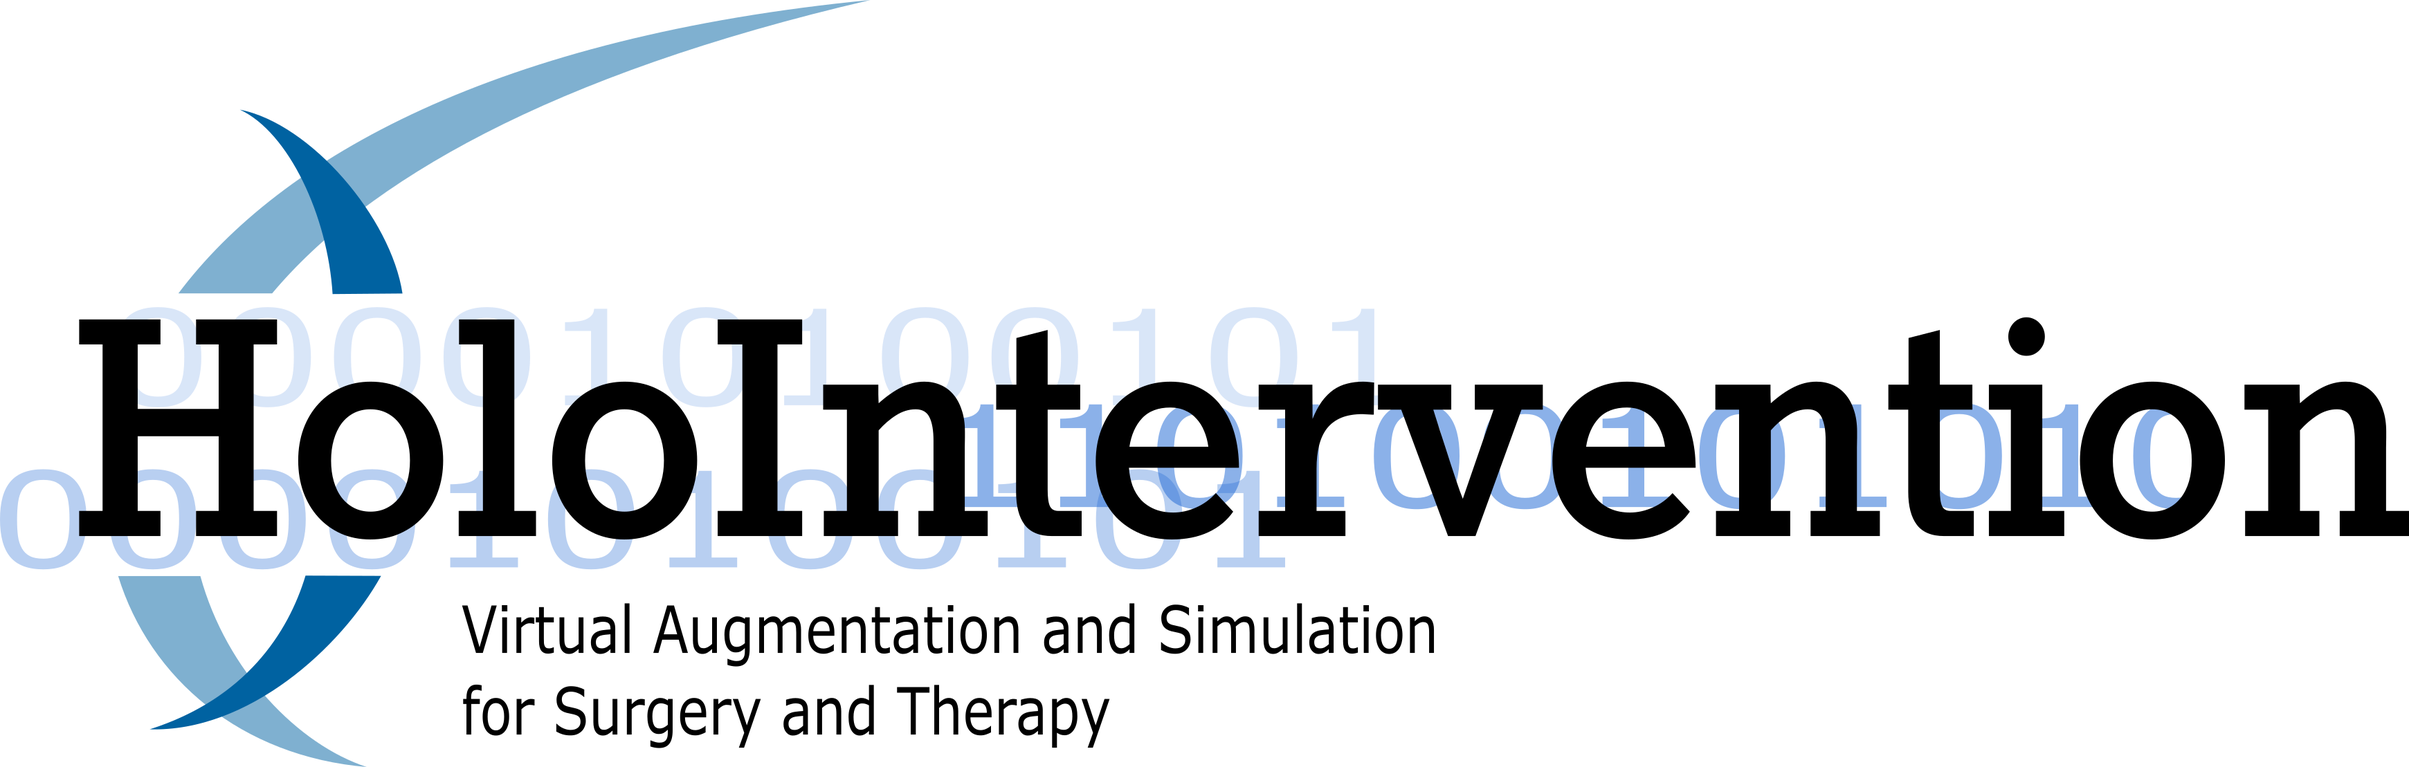
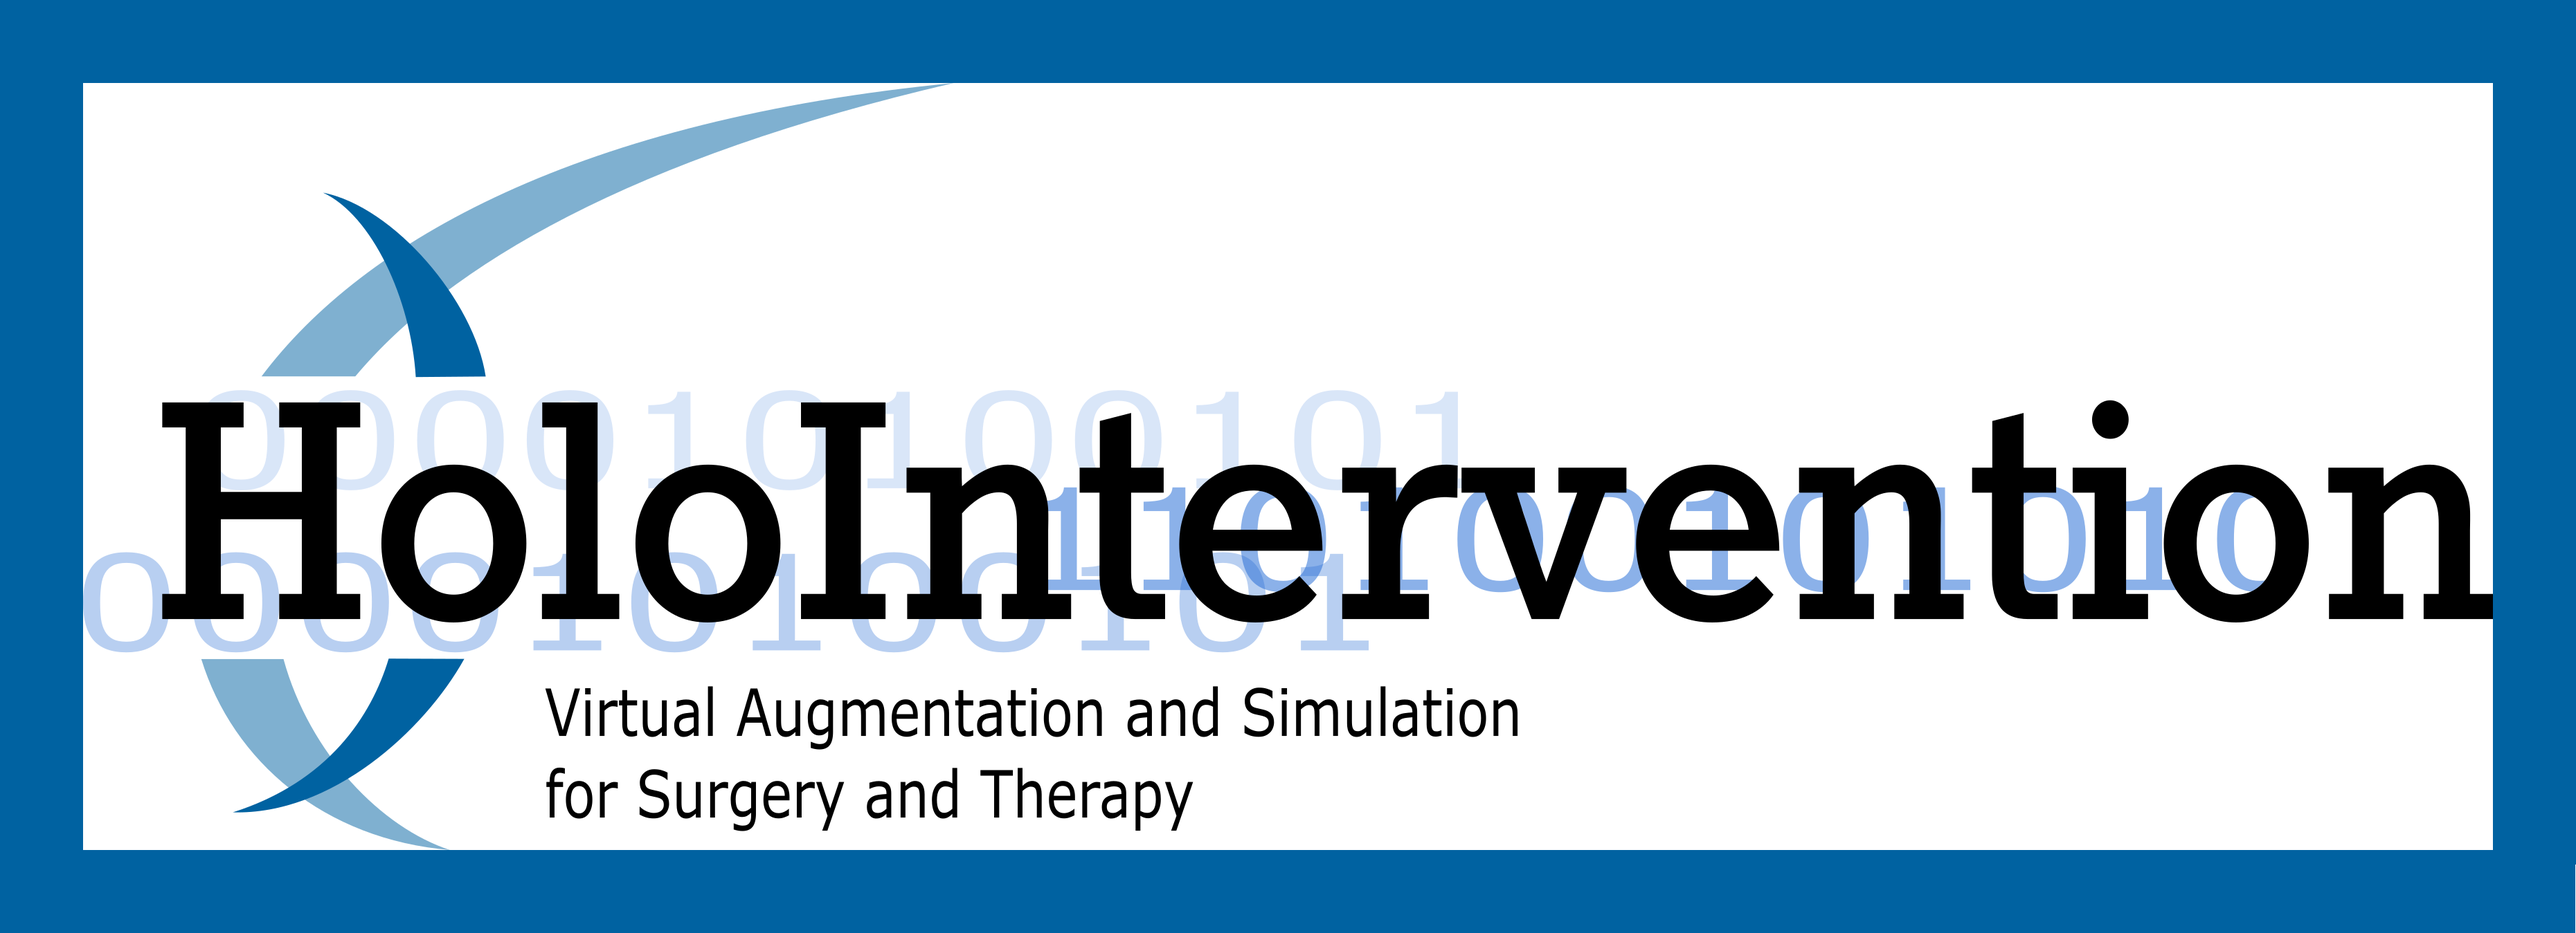
Updating splash system to place the image before lerping it
Applying same logic to model system

Updating splash image

diff --git a/HoloIntervention/Content/Systems/Icon/IconSystem.cpp b/HoloIntervention/Content/Systems/Icon/IconSystem.cpp
@@ -157,7 +157,15 @@ namespace HoloIntervention
       for (auto& entry : m_iconEntries)
       {
         float4x4 scaleToWorldTransform = make_float4x4_scale(entry->GetScaleFactor());
-        entry->GetModelEntry()->SetDesiredPose(scaleToWorldTransform * worldToRotatedTransform * make_float4x4_rotation_y(angle) * make_float4x4_rotation_x(UP_ANGLE));
+        if (entry->GetFirstFrame())
+        {
+          entry->GetModelEntry()->SetCurrentPose(scaleToWorldTransform * worldToRotatedTransform * make_float4x4_rotation_y(angle) * make_float4x4_rotation_x(UP_ANGLE));
+          entry->SetFirstFrame(false);
+        }
+        else
+        {
+          entry->GetModelEntry()->SetDesiredPose(scaleToWorldTransform * worldToRotatedTransform * make_float4x4_rotation_y(angle) * make_float4x4_rotation_x(UP_ANGLE));
+        }
         angle -= (ANGLE_BETWEEN_ICONS_DEG / 180.f * PI);
       }
     }

diff --git a/HoloIntervention/Content/Systems/Icon/IconEntry.h b/HoloIntervention/Content/Systems/Icon/IconEntry.h
@@ -24,6 +24,8 @@ OTHER DEALINGS IN THE SOFTWARE.
 
 #pragma once
 
+#include <atomic>
+
 namespace HoloIntervention
 {
   namespace Rendering
@@ -48,8 +50,12 @@ namespace HoloIntervention
       std::shared_ptr<Rendering::ModelEntry> GetModelEntry() const;
       void SetModelEntry(std::shared_ptr<Rendering::ModelEntry> entry);
 
+      bool GetFirstFrame() const;
+      void SetFirstFrame(bool firstFrame);
+
     protected:
       uint64                                          m_id;
+      std::atomic_bool                                m_firstFrame = true;
       std::shared_ptr<Rendering::ModelEntry>          m_modelEntry;
       float                                           m_scaleFactor = 1.f;
     };

diff --git a/HoloIntervention/Content/Systems/Splash/SplashSystem.cpp b/HoloIntervention/Content/Systems/Splash/SplashSystem.cpp
@@ -118,7 +118,7 @@ namespace HoloIntervention
       {
         const float3 offsetFromGazeAtTwoMeters = headPose->Head->Position + (float3(NOTIFICATION_DISTANCE_OFFSET) * headPose->Head->ForwardDirection);
         const float4x4 worldTransform = make_float4x4_world(offsetFromGazeAtTwoMeters, headPose->Head->ForwardDirection, headPose->Head->UpDirection);
-        const float4x4 scaleTransform = make_float4x4_scale(0.6f, 0.3f, 1.f); // 60cm x 30cm
+        const float4x4 scaleTransform = make_float4x4_scale(1.0f, 0.36254f, 1.f); // Keep aspect ratio of 3721x1349
 
         if (m_firstFrame)
         {

diff --git a/HoloIntervention/Content/Rendering/ModelEntry.cpp b/HoloIntervention/Content/Rendering/ModelEntry.cpp
@@ -262,6 +262,12 @@ namespace HoloIntervention
     }
 
     //----------------------------------------------------------------------------
+    void ModelEntry::SetCurrentPose(const Windows::Foundation::Numerics::float4x4& world)
+    {
+      m_currentPose = m_desiredPose = world;
+    }
+
+    //----------------------------------------------------------------------------
     const Windows::Foundation::Numerics::float4x4& ModelEntry::GetCurrentPose() const
     {
       return m_currentPose;

diff --git a/HoloIntervention/Content/Systems/Icon/IconEntry.cpp b/HoloIntervention/Content/Systems/Icon/IconEntry.cpp
@@ -78,5 +78,17 @@ namespace HoloIntervention
       m_modelEntry = entry;
     }
 
+    //----------------------------------------------------------------------------
+    bool IconEntry::GetFirstFrame() const
+    {
+      return m_firstFrame;
+    }
+
+    //----------------------------------------------------------------------------
+    void IconEntry::SetFirstFrame(bool firstFrame)
+    {
+      m_firstFrame = firstFrame;
+    }
+
   }
 }

diff --git a/HoloIntervention/Content/Rendering/ModelEntry.h b/HoloIntervention/Content/Rendering/ModelEntry.h
@@ -74,6 +74,7 @@ namespace HoloIntervention
       void SetPoseLerpRate(float lerpRate);
 
       void SetDesiredPose(const Windows::Foundation::Numerics::float4x4& world);
+      void SetCurrentPose(const Windows::Foundation::Numerics::float4x4& world);
       const Windows::Foundation::Numerics::float4x4& GetCurrentPose() const;
 
       const Windows::Foundation::Numerics::float3& GetVelocity() const;

diff --git a/HoloIntervention/Content/Systems/Icon/IconSystem.h b/HoloIntervention/Content/Systems/Icon/IconSystem.h
@@ -104,6 +104,7 @@ namespace HoloIntervention
       float                           m_cameraBlinkTimer = 0.f;
       static const float              CAMERA_BLINK_TIME_SEC;
 
+      // Shared variables
       static const float              ANGLE_BETWEEN_ICONS_DEG;
       static const float              ICON_SIZE_METER;
     };
